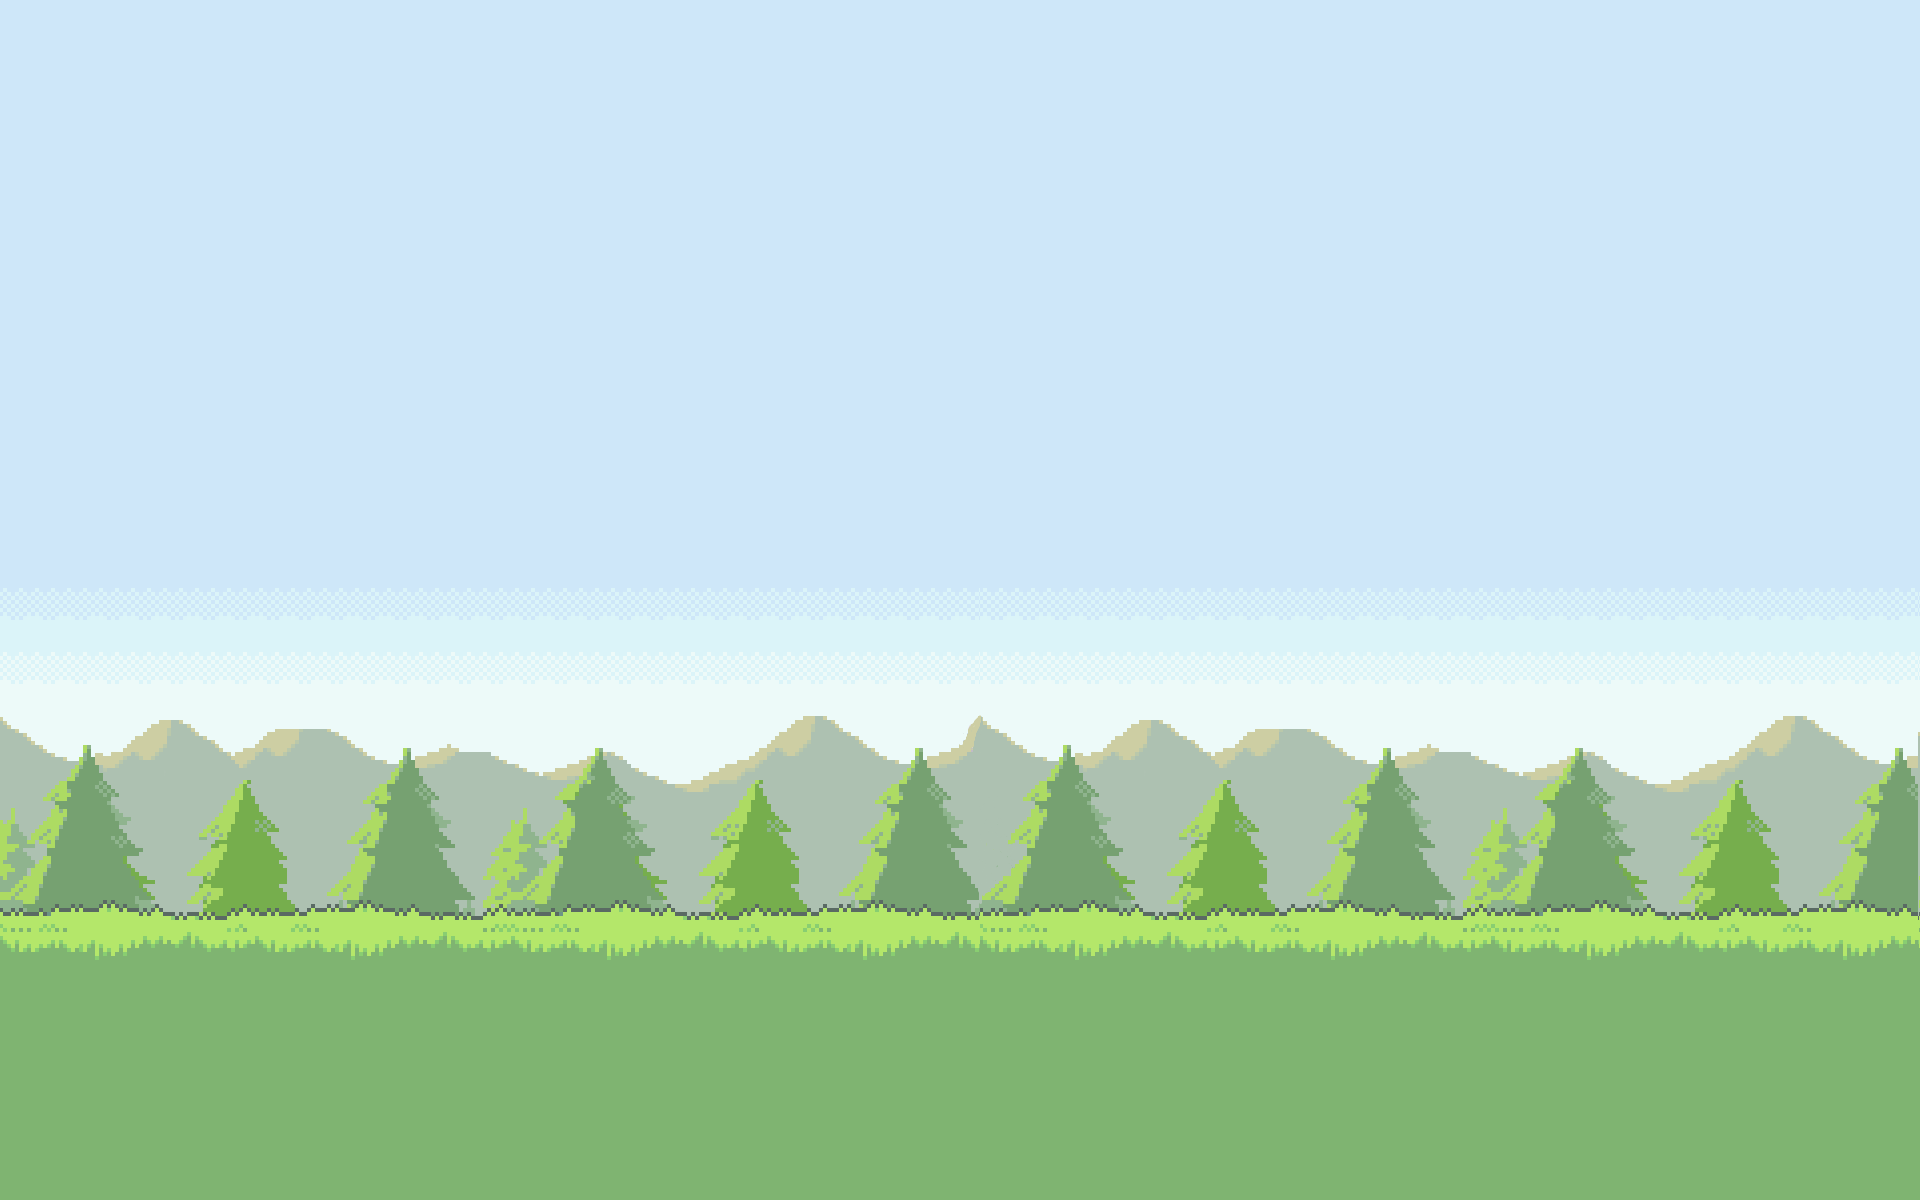
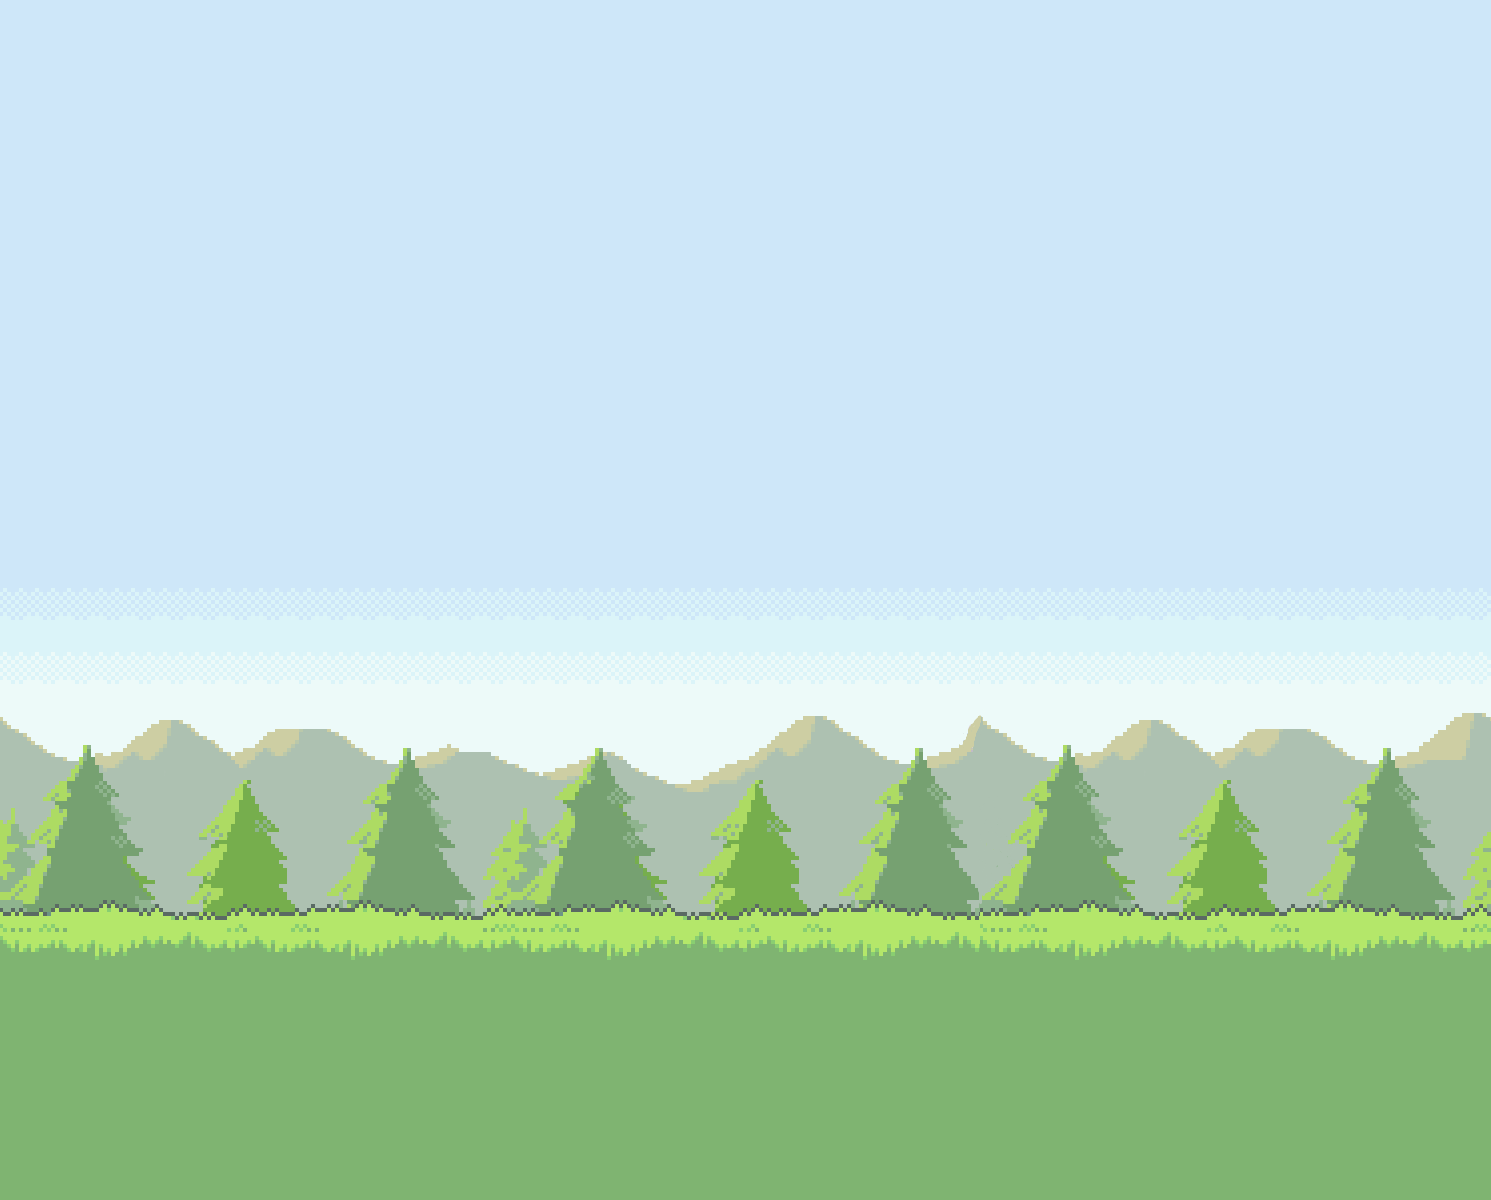
Make background scroll left and clean up code

Changed region(s): [[0.0, 0.5858, 1.0, 0.8017]]

diff --git a/core/src/main/java/my/spel/GameplayScreen.java b/core/src/main/java/my/spel/GameplayScreen.java
@@ -1,10 +1,8 @@
 package my.spel;
 
-import com.badlogic.gdx.Game;
 import com.badlogic.gdx.Gdx;
 import com.badlogic.gdx.Input;
 import com.badlogic.gdx.Screen;
-import com.badlogic.gdx.audio.Music;
 import com.badlogic.gdx.graphics.Color;
 import com.badlogic.gdx.graphics.Texture;
 import com.badlogic.gdx.graphics.g2d.Sprite;
@@ -23,6 +21,8 @@ public class GameplayScreen implements Screen {
 
     public static int highScore = 0;
     public int scoreThisRound;
+    private final float scrollSpeed;
+    private float backgroundScrollAmount;
 
     private final float gravityConstant;
     private float playerSpeedY;
@@ -68,23 +68,18 @@ public class GameplayScreen implements Screen {
         startingPlatform = new Sprite(new Texture("player_hitbox.png"));
         startingPlatform.setY(playerSprite.getY() - 3);
         startingPlatform.setX(playerSprite.getX() - (playerSprite.getWidth() / 8));
-        startingPlatform.setSize(playerSprite.getWidth(),3);
+        startingPlatform.setSize(playerSprite.getWidth(), 3);
 
         playerHitBox = new Rectangle();
         playerHitBoxTexture = new Texture("player_hitbox.png");
         playerIsDead = false;
         initialPause = true;
         obstacles = new ArrayList<>();
-        timeToCreateNewObstacle = 2f;
+        timeToCreateNewObstacle = 0f;
+        scrollSpeed = 20f;
+        backgroundScrollAmount = 0;
 
-
-
-        playerHitBox.set(
-            playerSprite.getX() + playerSprite.getWidth() / 4f,
-            playerSprite.getY() + playerSprite.getHeight() / 4f,
-            playerSprite.getWidth() / 2f,
-            playerSprite.getHeight() / 2f
-        );
+        createPlayerHitbox();
     }
 
     public void createNewObstacle() {
@@ -126,7 +121,7 @@ public class GameplayScreen implements Screen {
             logic(delta);
         }
 
-        draw();
+        draw(delta);
 
         if (pauseTimer > 0) {
             pauseTimer -= delta;
@@ -190,57 +185,28 @@ public class GameplayScreen implements Screen {
     }
 
     private void logic(float delta) {
-        startingPlatform.translateX(-20 * delta);
+        moveBackground(delta);
+        moveStartingPlatform(delta);
+        createPlayerHitbox();
 
-        playerHitBox.set(
-            playerSprite.getX() + playerSprite.getWidth() / 4f,
-            playerSprite.getY() + playerSprite.getHeight() / 4f,
-            playerSprite.getWidth() / 2f,
-            playerSprite.getHeight() / 2f
-        );
-
-
-        timeToCreateNewObstacle -= delta;
-        if (timeToCreateNewObstacle < 0) {
-            timeToCreateNewObstacle = 5f;
+        if (enoughTimeHasPassedToCreateObstacle(delta)) {
             createNewObstacle();
         }
-
-        if(!playerIsDead){
-            for (Sprite obstacle : obstacles) {
-                Rectangle obstacleHitBox = new Rectangle();
-                obstacleHitBox.set(obstacle.getX(), obstacle.getY(), obstacle.getWidth(), obstacle.getHeight());
-                if (playerHitBox.overlaps(obstacleHitBox)) {
-                    parent.playSound(Gdx.audio.newSound(Gdx.files.internal(theme + "/death_sound.mp3")));
-                    playerIsDead = true;
-                }
-                obstacle.translateX(-20 * delta);
-            }
-        }
-
-        for (int i = obstacles.size() - 1; i >= 0 ; i--) {
-            if(obstacles.get(i).getX() < -30){
-                System.out.println("Removed out of bounds obstacle");
-                obstacles.remove(i);
-            }
-        }
-
-
-        playerSprite.translateY(playerSpeedY);
-        playerSpeedY += gravityConstant * delta;
-
-        playerSprite.setX(MathUtils.clamp(playerSprite.getX(), 0, viewport.getWorldWidth() - playerSprite.getWidth()));
-
         if (!playerIsDead) {
-            playerSprite.setY(MathUtils.clamp(playerSprite.getY(), 0, viewport.getWorldHeight() - playerSprite.getHeight()));
+            if (playerHasCollidedWithObstacle()) {
+                killPlayer();
+            }
         }
+
+        moveObstacle(delta);
+        movePlayerGravity(delta);
+        checkPlayerCollision();
 
         if (playerSprite.getY() == 0) {
-            playerIsDead = true;
-            parent.playSound(Gdx.audio.newSound(Gdx.files.internal(theme + "/death_sound.mp3")));
+            killPlayer();
         }
 
-        if (playerSprite.getY() < -200) {
+        if (isGameOver()) {
             Main.previousScreen = Main.ScreenTypes.GAMEPLAY;
             dispose();
             parent.stopMusic();
@@ -248,7 +214,81 @@ public class GameplayScreen implements Screen {
         }
     }
 
-    private void draw() {
+    private void checkPlayerCollision() {
+        playerSprite.setX(MathUtils.clamp(playerSprite.getX(), 0, viewport.getWorldWidth() - playerSprite.getWidth()));
+        if (!playerIsDead) {
+            playerSprite.setY(MathUtils.clamp(playerSprite.getY(), 0, viewport.getWorldHeight() - playerSprite.getHeight()));
+        }
+    }
+
+    private boolean enoughTimeHasPassedToCreateObstacle(float delta) {
+        timeToCreateNewObstacle -= delta;
+        if(timeToCreateNewObstacle < 0){
+            timeToCreateNewObstacle = 5;
+            return true;
+        }
+        return false;
+    }
+
+    private void killPlayer() {
+        playerIsDead = true;
+        parent.playSound(Gdx.audio.newSound(Gdx.files.internal(theme + "/death_sound.mp3")));
+    }
+
+    private boolean isGameOver() {
+        return playerSprite.getY() < -200;
+    }
+
+    private void movePlayerGravity(float delta) {
+        playerSprite.translateY(playerSpeedY);
+        playerSpeedY += gravityConstant * delta;
+    }
+
+    private void moveObstacle(float delta) {
+        for (int i = obstacles.size() - 1; i >= 0; i--) {
+
+            obstacles.get(i).translateX(-20 * delta);
+
+            if (obstacles.get(i).getX() < -30) {
+                System.out.println("Removed out of bounds obstacle");
+                obstacles.remove(i);
+            }
+        }
+    }
+
+    private boolean playerHasCollidedWithObstacle() {
+        for (Sprite obstacle : obstacles) {
+            Rectangle obstacleHitBox = new Rectangle();
+            obstacleHitBox.set(obstacle.getX(), obstacle.getY(), obstacle.getWidth(), obstacle.getHeight());
+
+            if (playerHitBox.overlaps(obstacleHitBox)) {
+                return true;
+            }
+        }
+        return false;
+    }
+
+    private void createPlayerHitbox() {
+        playerHitBox.set(
+            playerSprite.getX() + playerSprite.getWidth() / 4f,
+            playerSprite.getY() + playerSprite.getHeight() / 4f,
+            playerSprite.getWidth() / 2f,
+            playerSprite.getHeight() / 2f
+        );
+    }
+
+    private void moveStartingPlatform(float delta) {
+        startingPlatform.translateX(-scrollSpeed * delta);
+    }
+
+    private void moveBackground(float delta) {
+        backgroundScrollAmount += (scrollSpeed / 2) * delta;
+        if (backgroundScrollAmount > viewport.getWorldWidth()) {
+            backgroundScrollAmount = 0;
+        }
+    }
+
+    private void draw(float delta) {
         if (playerSpeedY == 0) {
             playerSprite.setTexture(playerTextureStill);
         } else if (playerIsDead) {
@@ -264,7 +304,9 @@ public class GameplayScreen implements Screen {
         float worldWidth = viewport.getWorldWidth();
         float worldHeight = viewport.getWorldHeight();
 
-        spriteBatch.draw(backgroundTexture, 0, 0, worldWidth, worldHeight);
+        spriteBatch.draw(backgroundTexture, -backgroundScrollAmount, 0, worldWidth, worldHeight);
+        spriteBatch.draw(backgroundTexture, worldWidth - backgroundScrollAmount, 0, worldWidth, worldHeight);
+
         playerSprite.setRotation(MathUtils.clamp(playerSpeedY * 20, -90, 90));
 
         for (Sprite obstacle : obstacles) {
